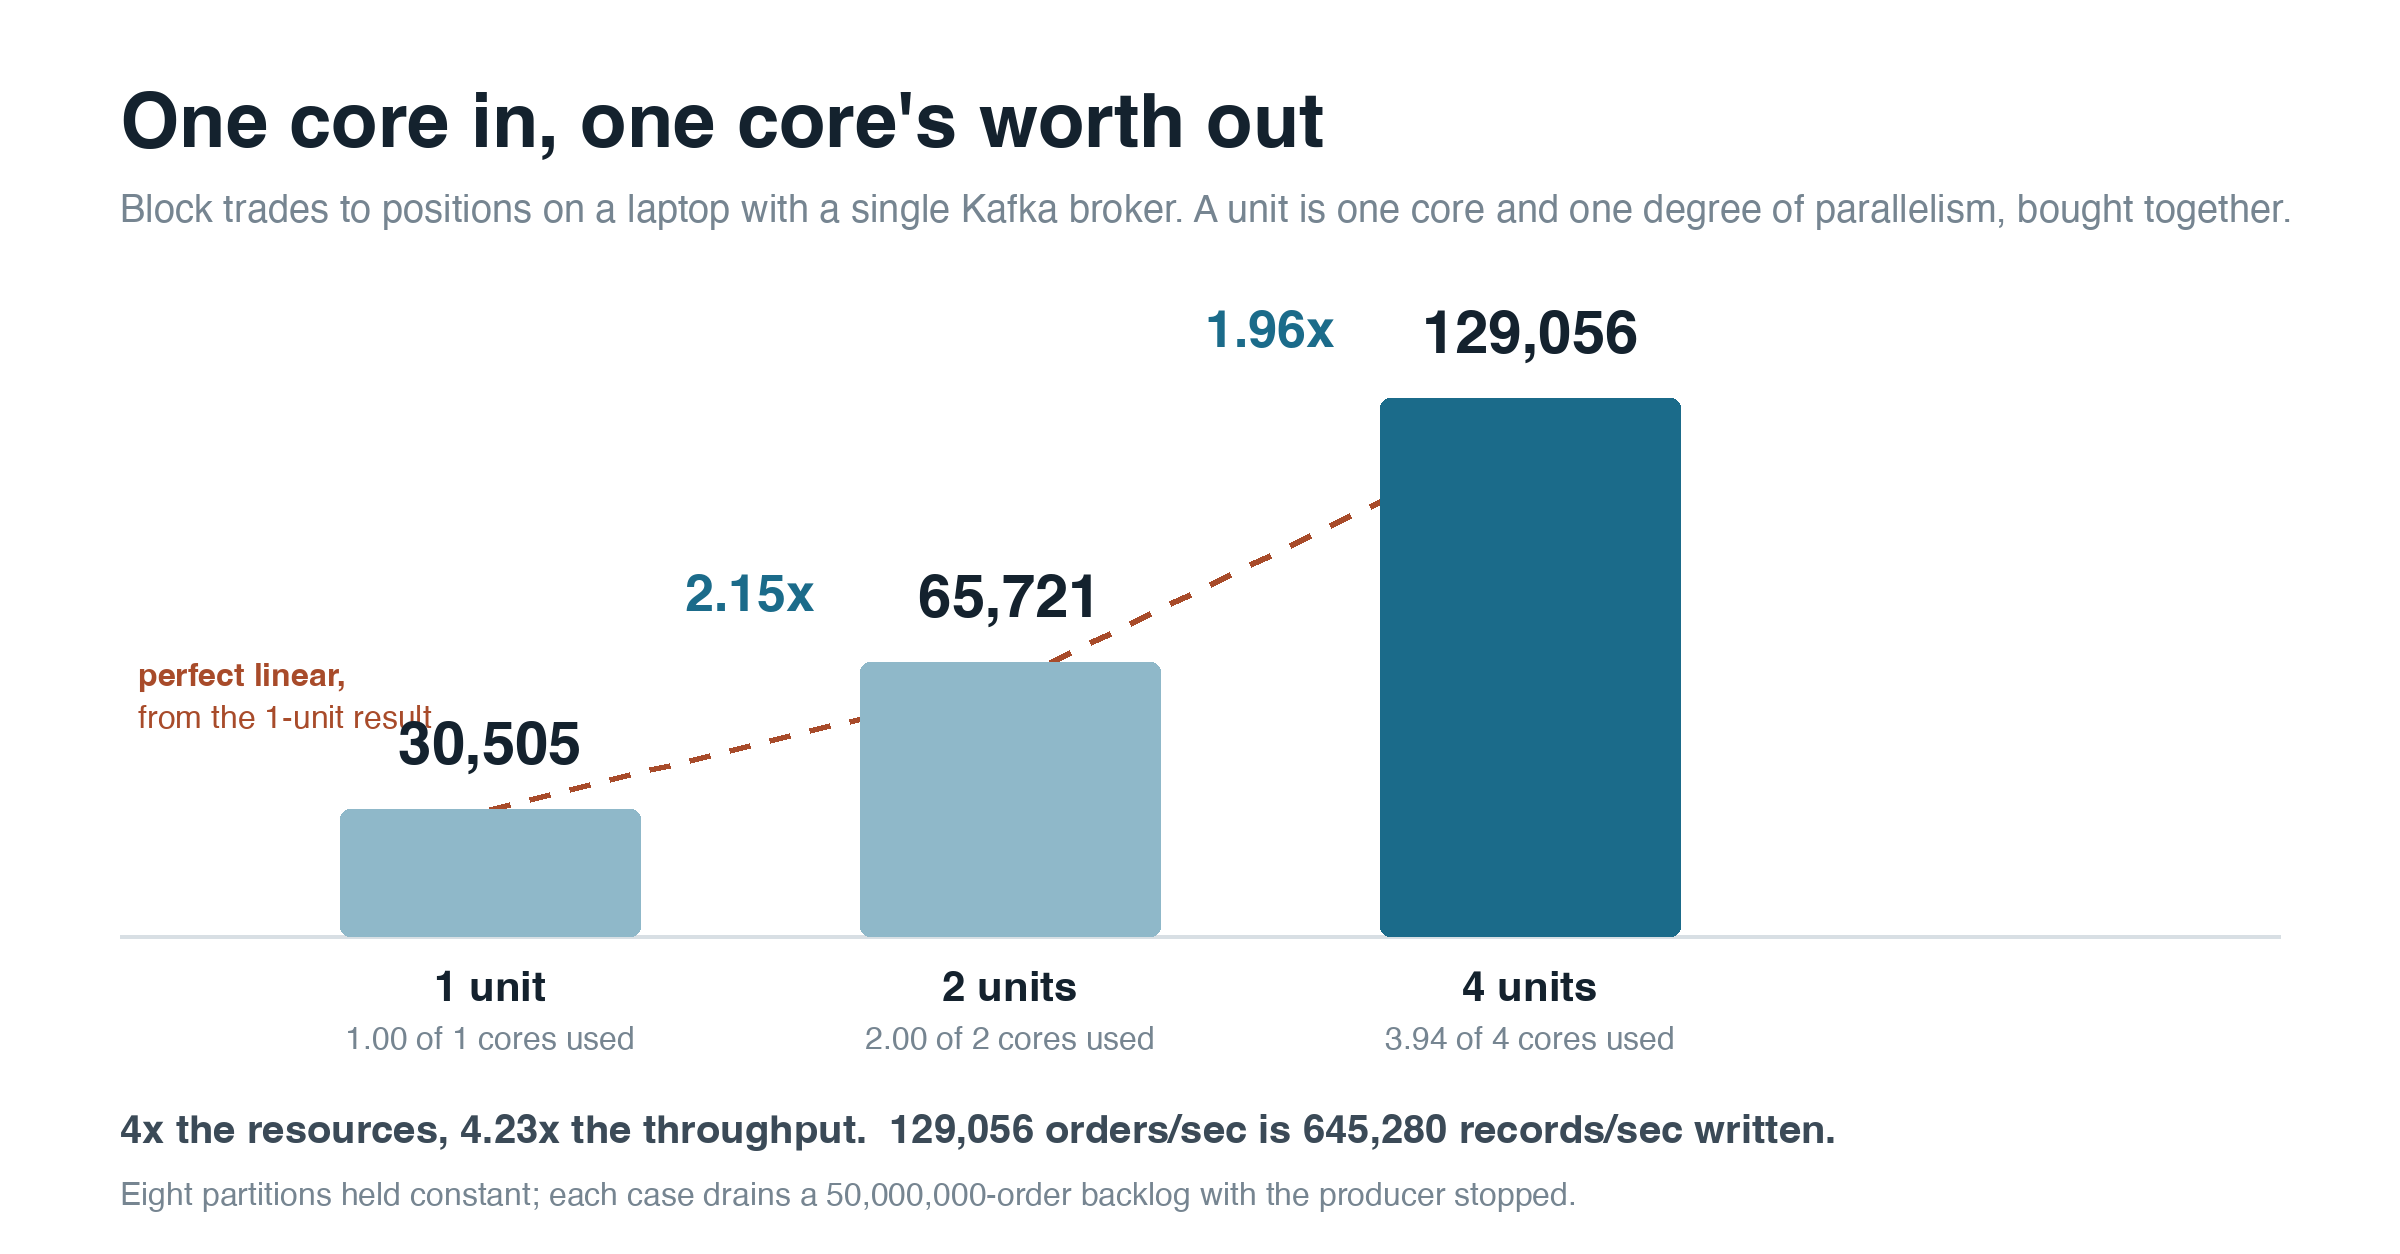
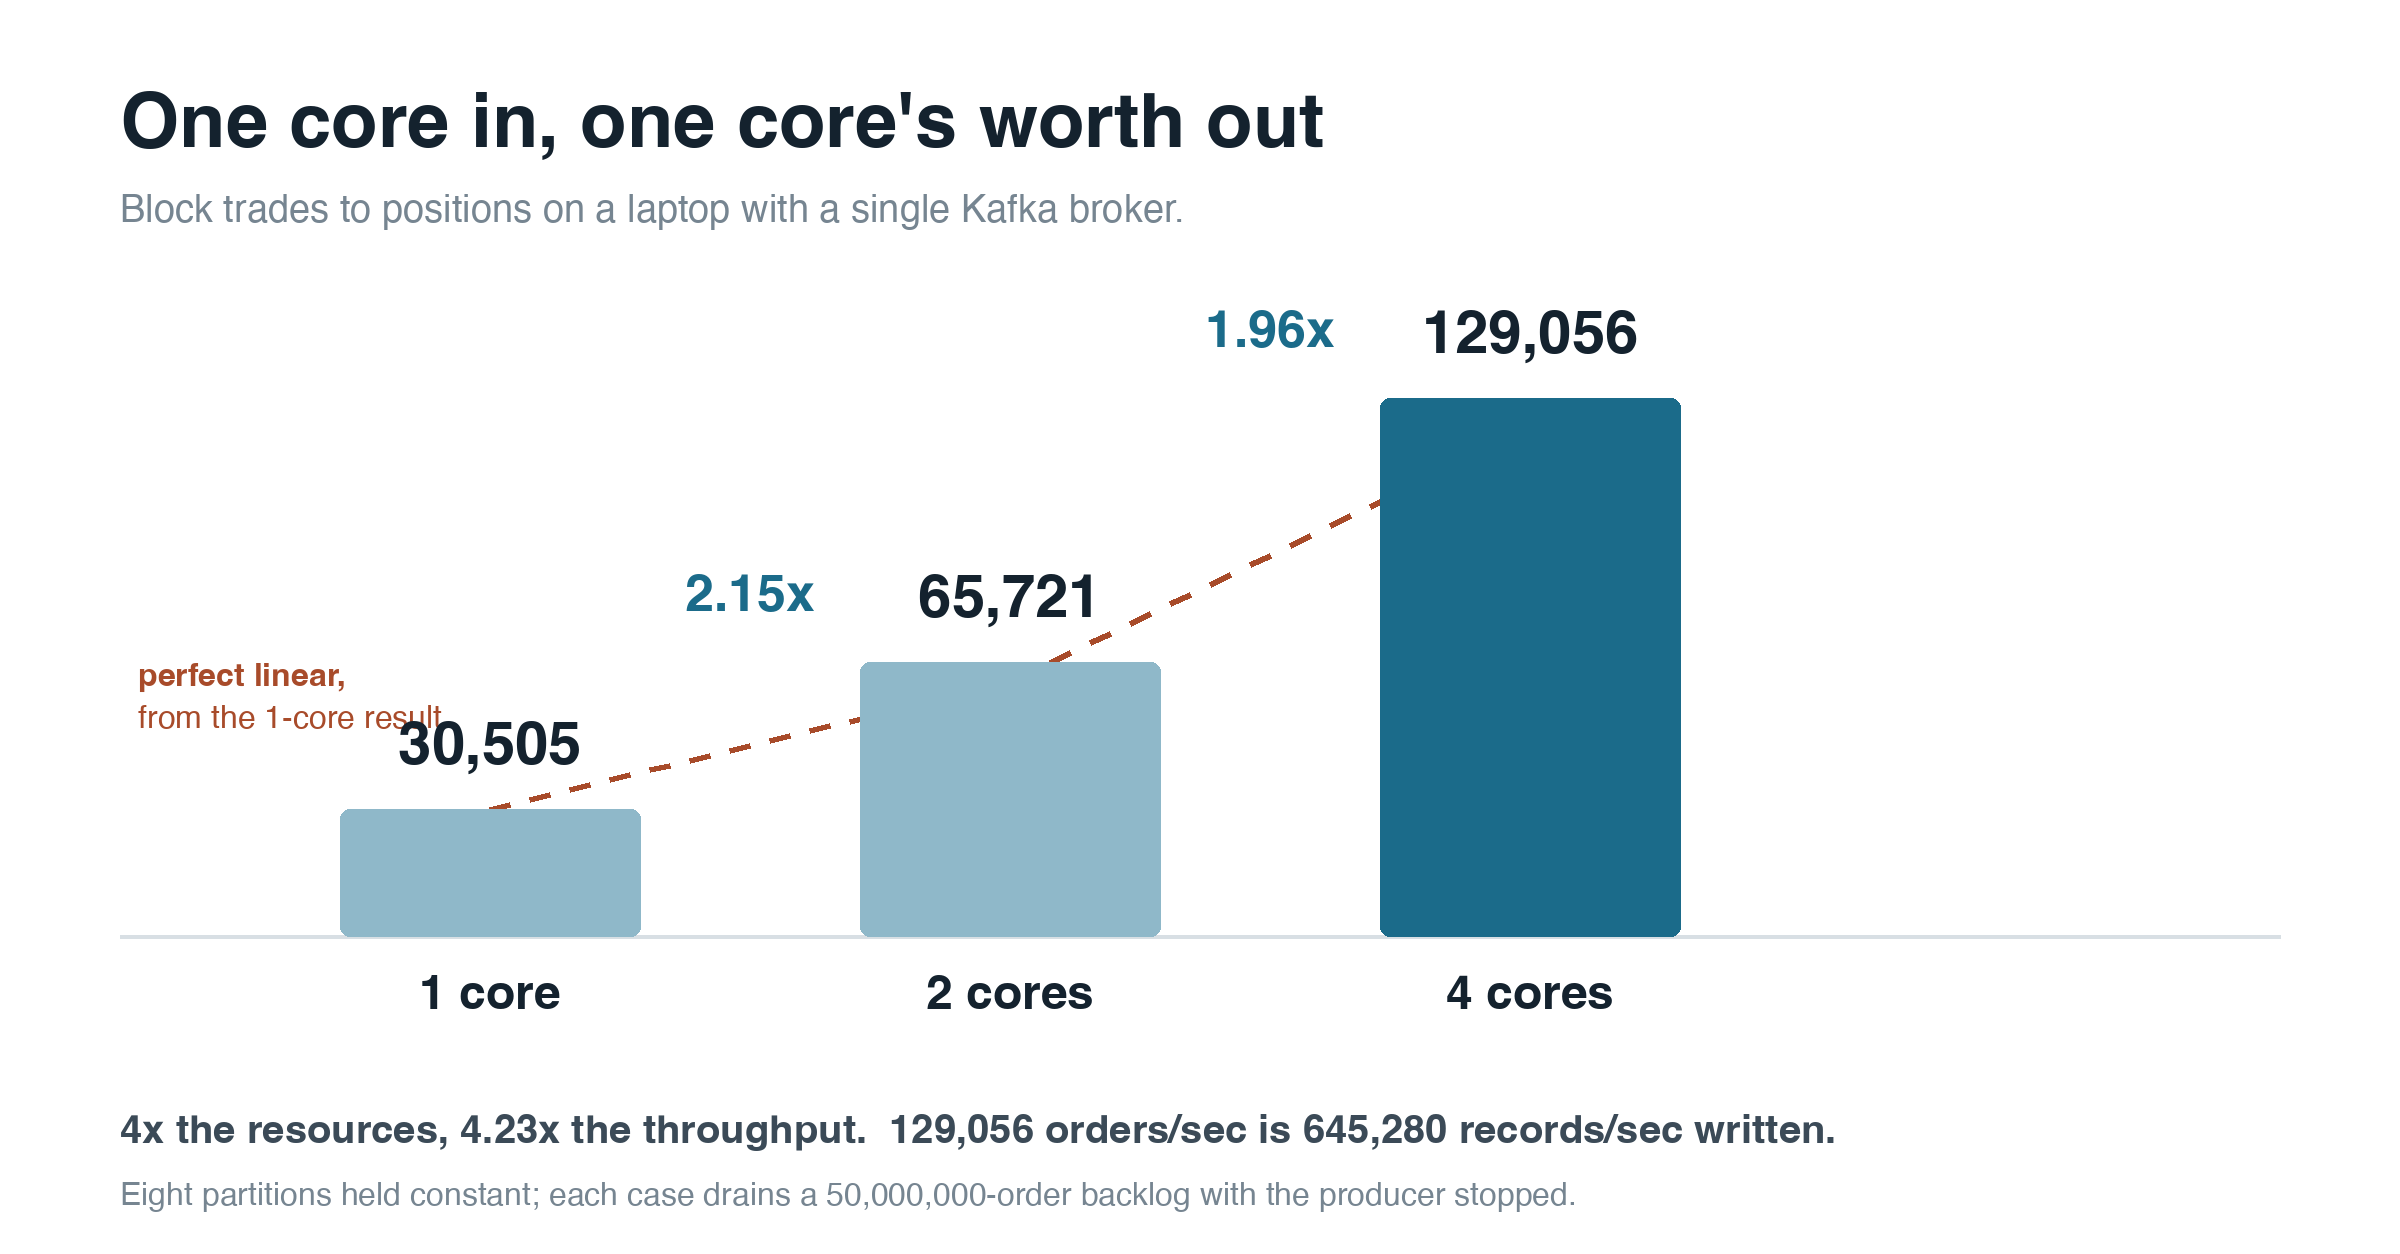
docs: cut the article to the claim and the evidence
934 words to 181. Everything from "what makes it a measurement and not a demo"
onwards is gone: the three-reasons section, the where-it-stops section, the
how-it-was-built section and the why-this-matters section. They explained the
result to a reader who had already seen it in the first screen.

What is left is the claim, who built it, the numbers, and the stack.

The chart's x axis is cores now -- 1 core, 2 cores, 4 cores -- rather than
"units" with a "1.00 of 1 cores used" line under each bar. The unit framing was
precise about parallelism being bought alongside the core, but it needed a
sentence of explanation to land, and a chart that needs explaining is not doing
its job.

Claude-Session: https://claude.ai/code/session_01AjapJuaeAp3sRNXvHzMkVB

diff --git a/scripts/article-chart.py b/scripts/article-chart.py
@@ -16,7 +16,7 @@ S = 2                                    # 2x for a crisp upload
 W, H = 1200 * S, 627 * S                 # LinkedIn's 1.91:1
 
 # from docs/steps/step-12/units.txt -- one laptop run, 8 partitions throughout
-CASES = [(1, 30505, "1.00 of 1"), (2, 65721, "2.00 of 2"), (4, 129056, "3.94 of 4")]
+CASES = [(1, 30505), (2, 65721), (4, 129056)]
 STEPS = ["2.15x", "1.96x"]               # measured, between consecutive bars
 
 INK   = (0x14, 0x22, 0x2E)
@@ -37,8 +37,7 @@ d = ImageDraw.Draw(im)
 
 d.text((60 * S, 44 * S), "One core in, one core's worth out", font=font(38, True), fill=INK)
 d.text((60 * S, 96 * S),
-       "Block trades to positions on a laptop with a single Kafka broker. "
-       "A unit is one core and one degree of parallelism, bought together.",
+       "Block trades to positions on a laptop with a single Kafka broker.",
        font=font(19), fill=MUTED)
 
 BASE = int(468 * S)                      # baseline y
@@ -52,9 +51,9 @@ d.line([(60 * S, BASE), (1140 * S, BASE)], fill=RULE, width=int(2 * S))
 BW = int(150 * S)
 XS = [int(x * S) for x in (170, 430, 690)]
 
-# ideal-linear reference, computed from the one-unit result
+# ideal-linear reference, computed from the one-core result
 per_unit = CASES[0][1]
-pts = [(XS[i] + BW // 2, BASE - h(per_unit * u)) for i, (u, _, _) in enumerate(CASES)]
+pts = [(XS[i] + BW // 2, BASE - h(per_unit * u)) for i, (u, _) in enumerate(CASES)]
 x, seg = pts[0][0], 0
 while seg < len(pts) - 1:
     (x0, y0), (x1, y1) = pts[seg], pts[seg + 1]
@@ -67,9 +66,9 @@ while seg < len(pts) - 1:
 # in the clear space left of where the line starts, not over a bar
 cx, cy = pts[0][0] - 176 * S, pts[0][1] - 74 * S
 d.text((cx, cy), "perfect linear,", font=font(16, True), fill=IDEAL)
-d.text((cx, cy + 21 * S), "from the 1-unit result", font=font(16), fill=IDEAL)
+d.text((cx, cy + 21 * S), "from the 1-core result", font=font(16), fill=IDEAL)
 
-for i, (units, val, cores) in enumerate(CASES):
+for i, (units, val) in enumerate(CASES):
     bh = h(val)
     x0 = XS[i]
     d.rounded_rectangle([x0, BASE - bh, x0 + BW, BASE],
@@ -78,12 +77,9 @@ for i, (units, val, cores) in enumerate(CASES):
     w = d.textlength(lab, font=font(30, True))
     d.text((x0 + (BW - w) / 2, BASE - bh - 46 * S), lab, font=font(30, True), fill=INK)
 
-    t = f"{units} unit" + ("s" if units > 1 else "")
-    w = d.textlength(t, font=font(21, True))
-    d.text((x0 + (BW - w) / 2, BASE + 16 * S), t, font=font(21, True), fill=INK)
-    c = cores + " cores used"
-    w = d.textlength(c, font=font(16), )
-    d.text((x0 + (BW - w) / 2, BASE + 44 * S), c, font=font(16), fill=MUTED)
+    t = f"{units} core" + ("s" if units > 1 else "")
+    w = d.textlength(t, font=font(24, True))
+    d.text((x0 + (BW - w) / 2, BASE + 18 * S), t, font=font(24, True), fill=INK)
 
     if i:                                 # multiplier between this bar and the last
         mx = (XS[i - 1] + BW + x0) / 2
